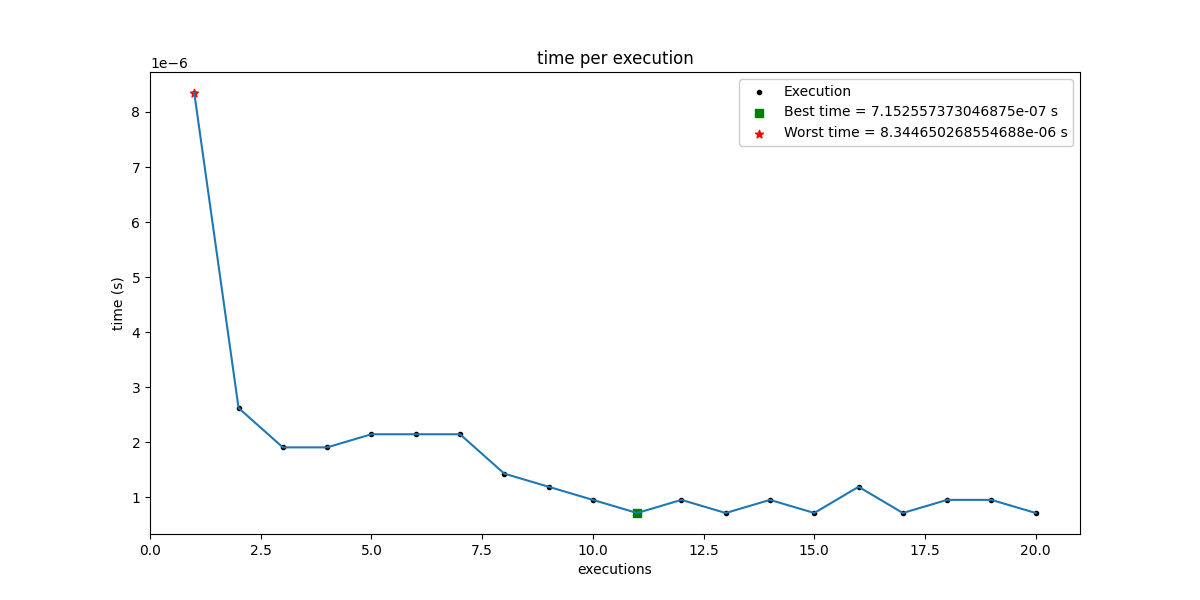
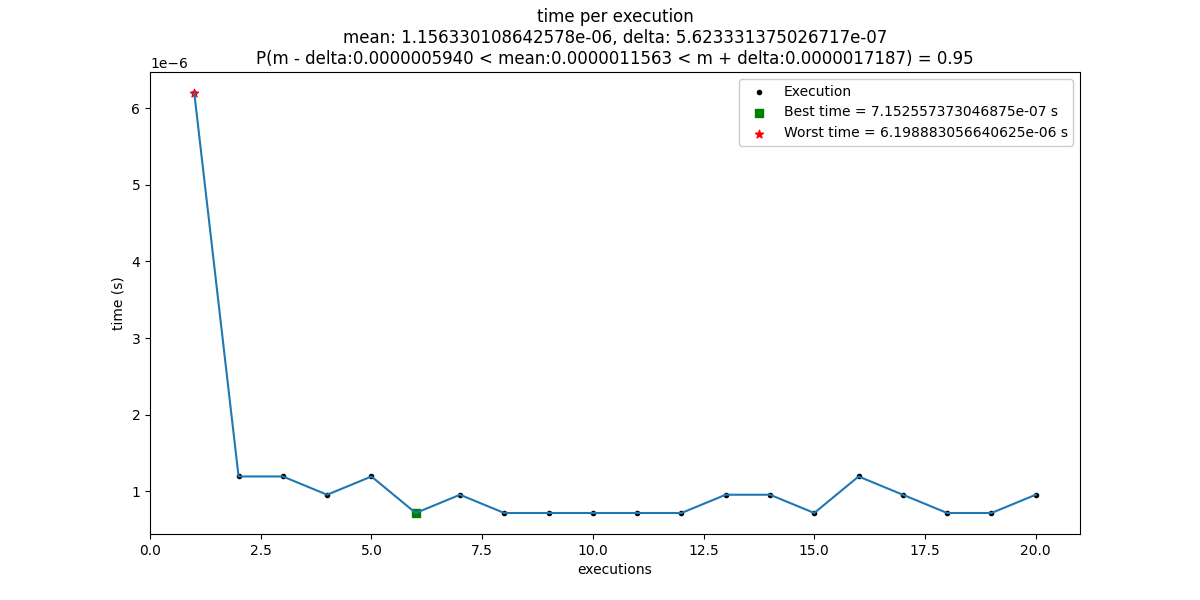
homework version 1.1 [working] -> adjust the range of the floats to number:.10f

diff --git a/modules/decorators.py b/modules/decorators.py
@@ -96,7 +96,7 @@ def calc_plot(function: Callable):
 		plt.figure(figsize=(12, 6))
 		plt.plot(range(1, N_PLOTS + 1), li_exec_time)
 		plt.axis(xmin=0, xmax=N_PLOTS + 1)
-		plt.title(f'time per execution\nmean: {m}, delta: {h}\nP(m - delta:{m_less_h} < mean:{m} < m + delta{m_pluss_h}) = {CONFIDENCE}')
+		plt.title(f'time per execution\nmean: {m}, delta: {h}\nP(m - delta:{m_less_h:.10f} < mean:{m:.10f} < m + delta:{m_pluss_h:.10f}) = {CONFIDENCE}')
 		plt.ylabel('time (s)')
 		plt.xlabel('executions')
 
